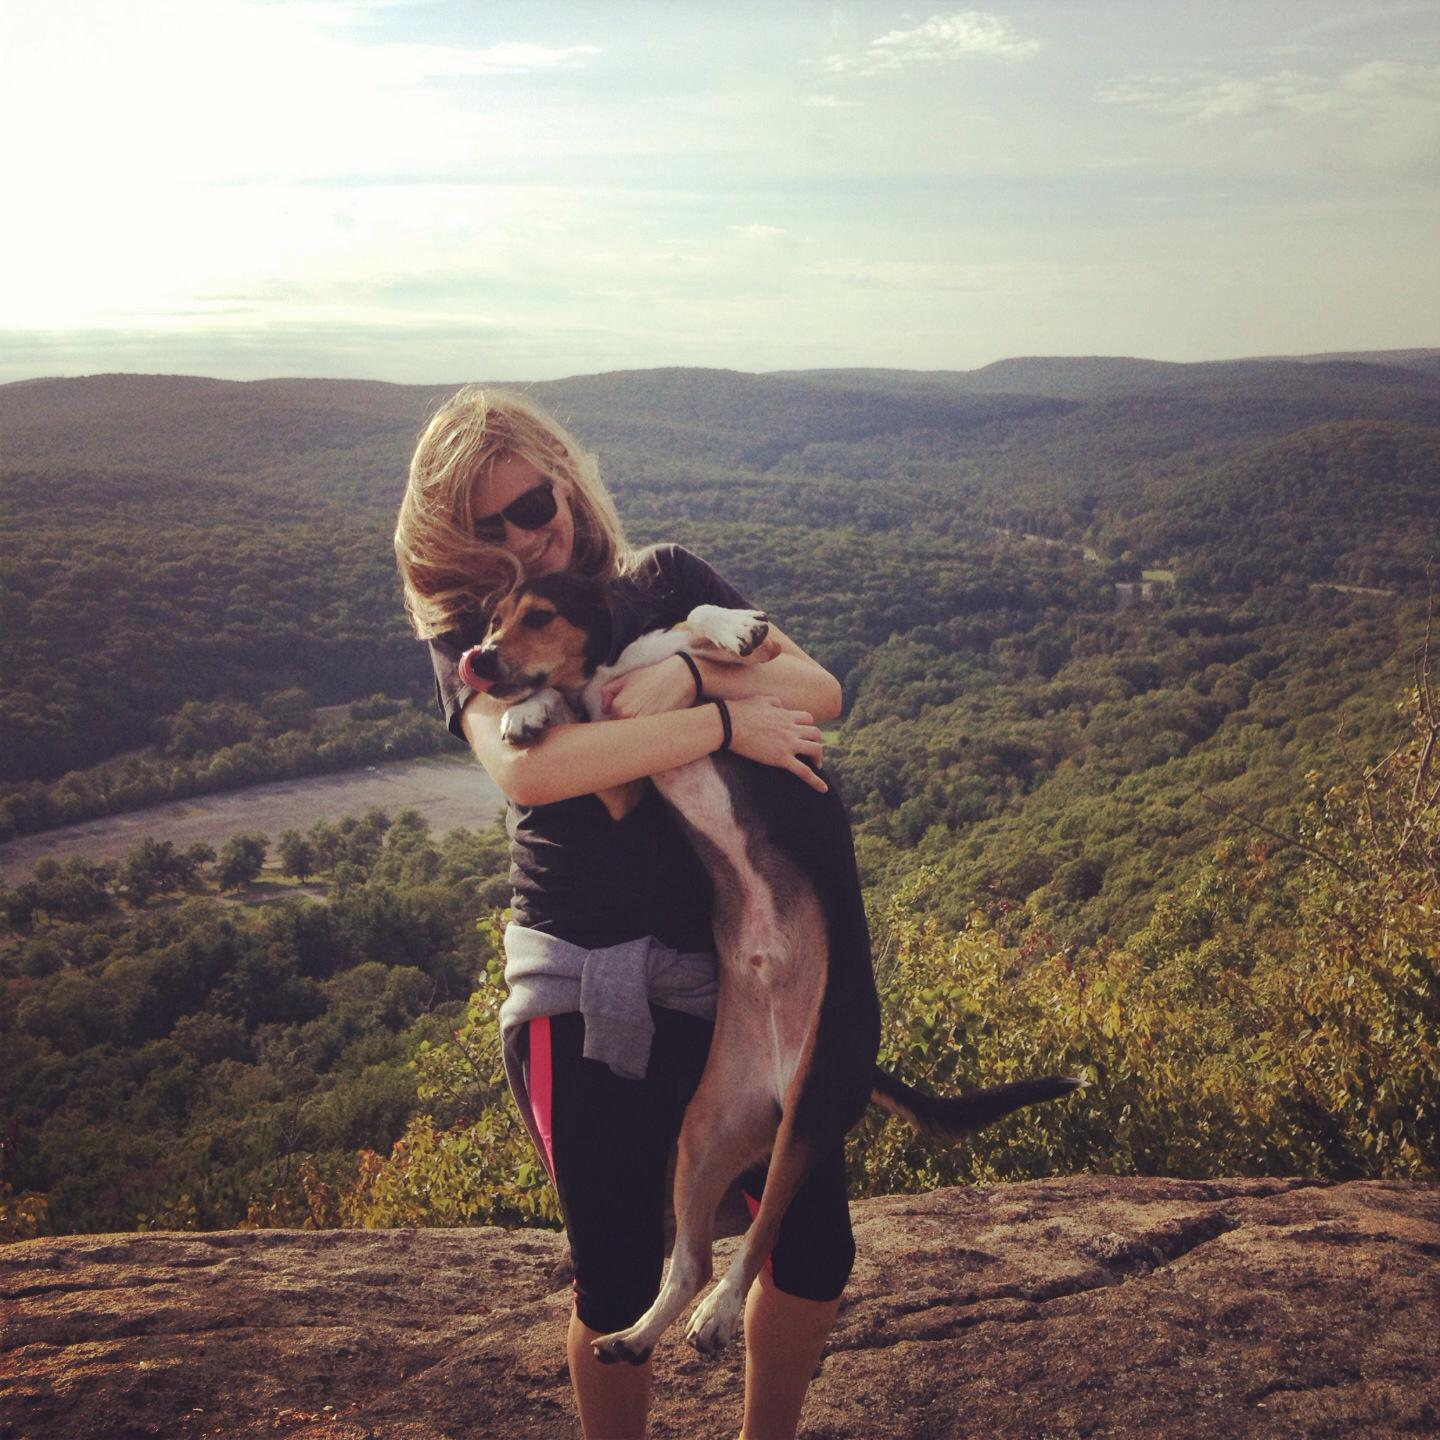
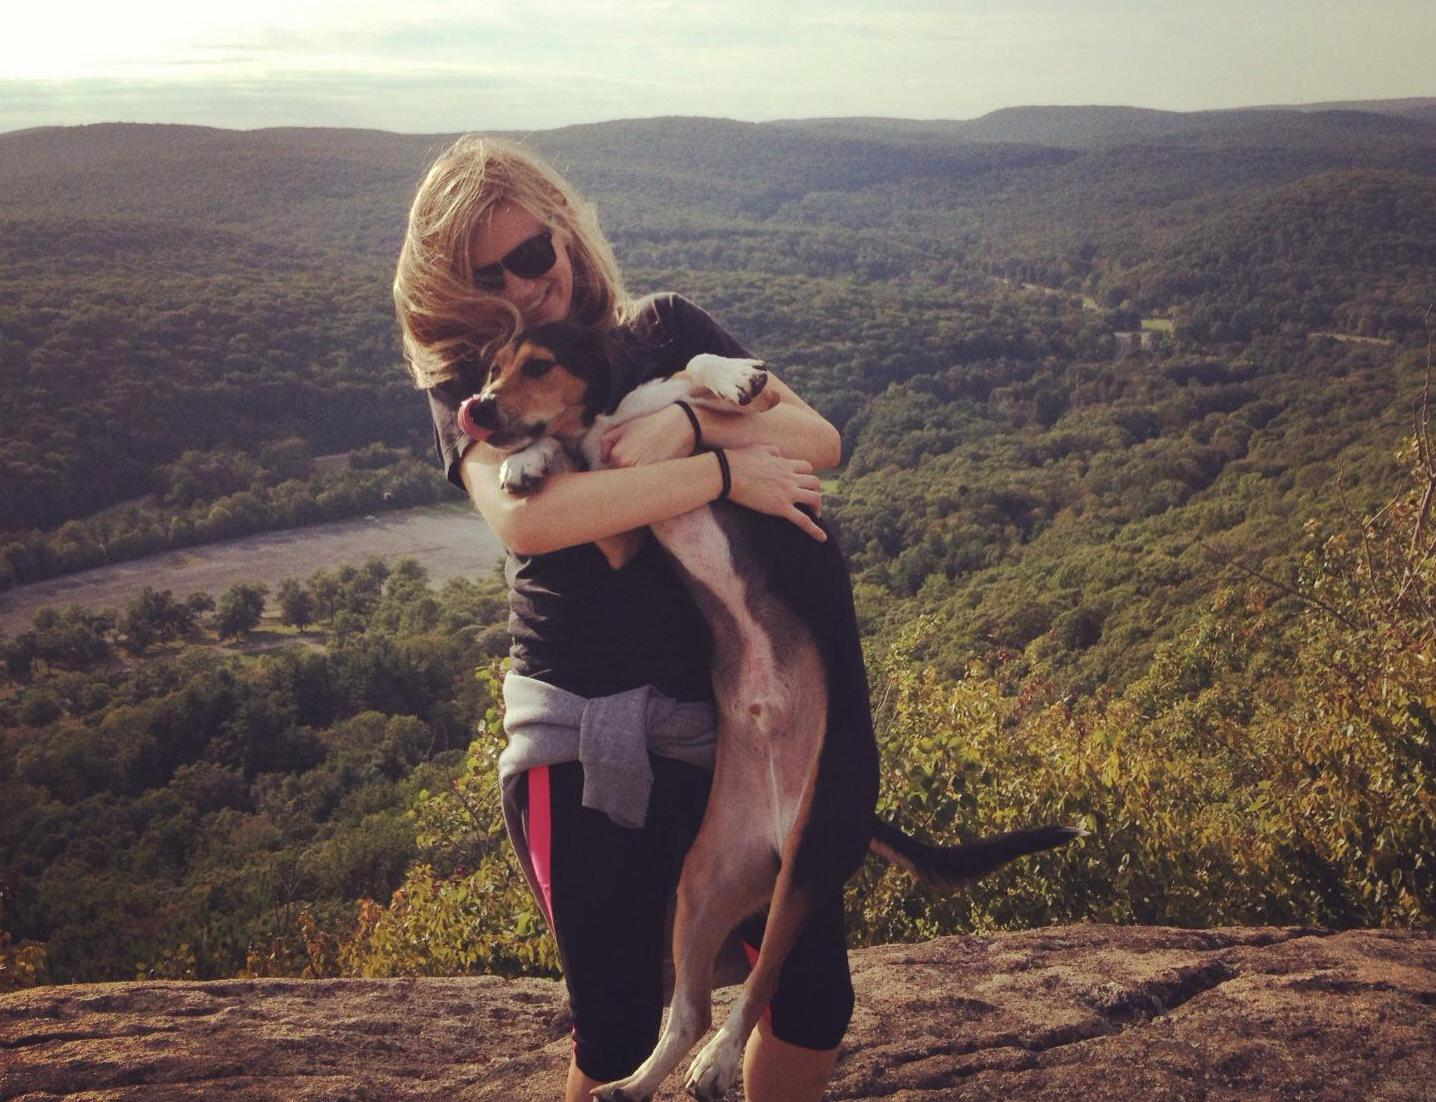
crop photos to fit in place of episode holder

diff --git a/src/css/stylesheets.css b/src/css/stylesheets.css
@@ -54,7 +54,7 @@ div.cardstyle {
 }
 
 img {
-  height: 100%;
+  bottom: 50px;
 }
 
 .footer {
